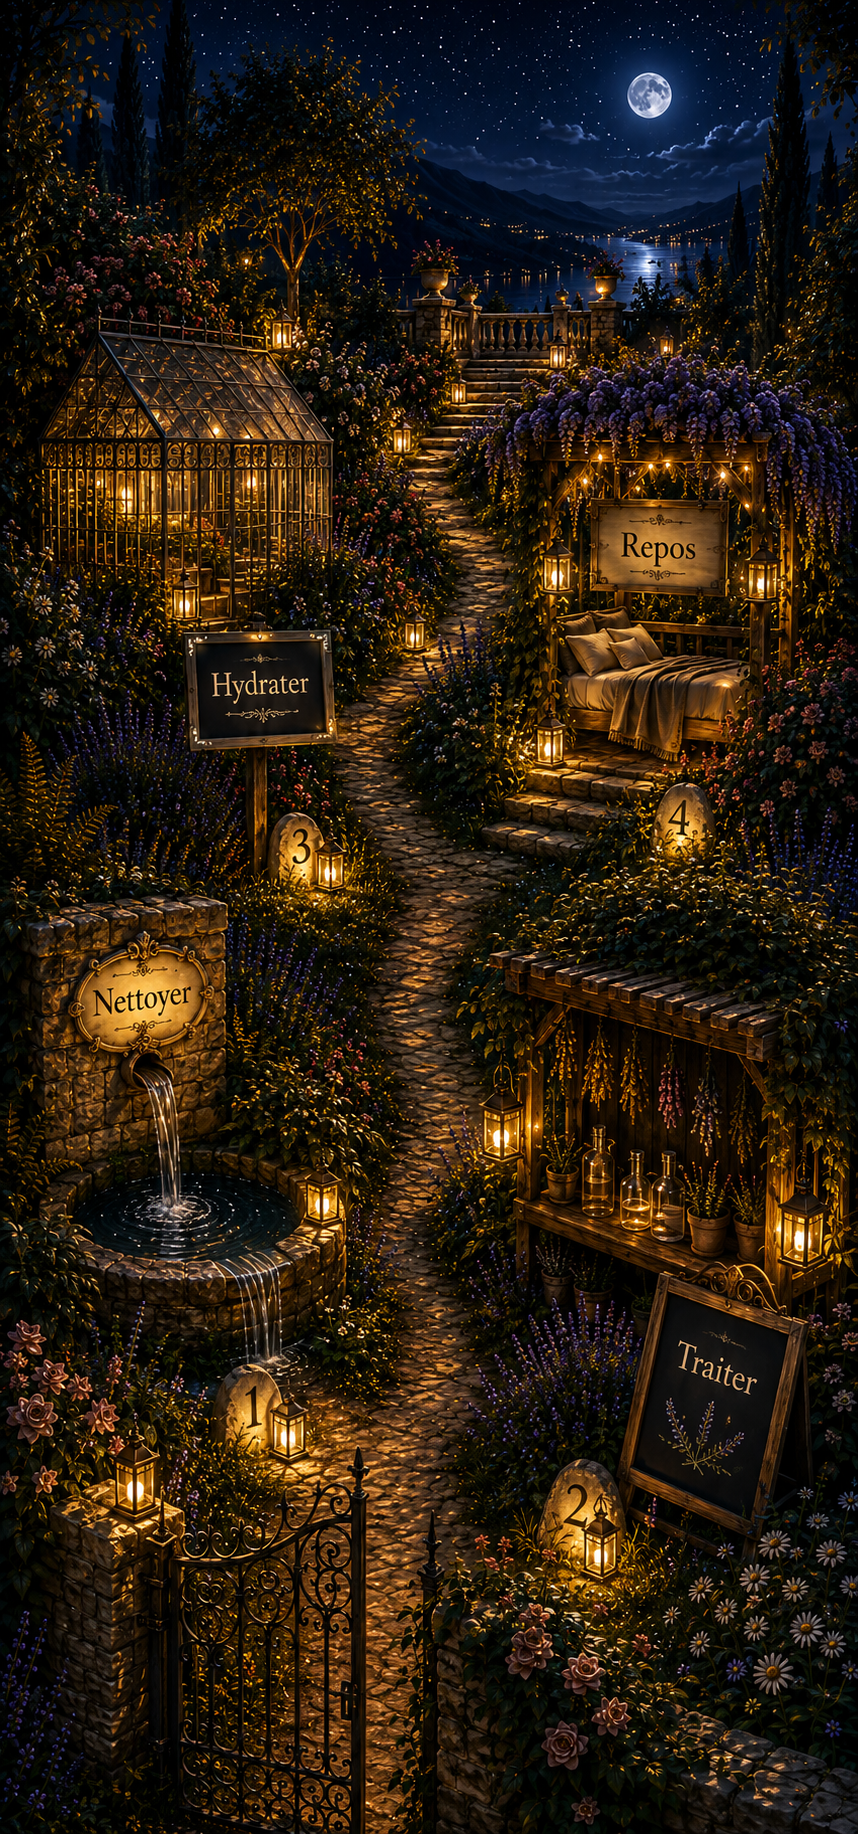
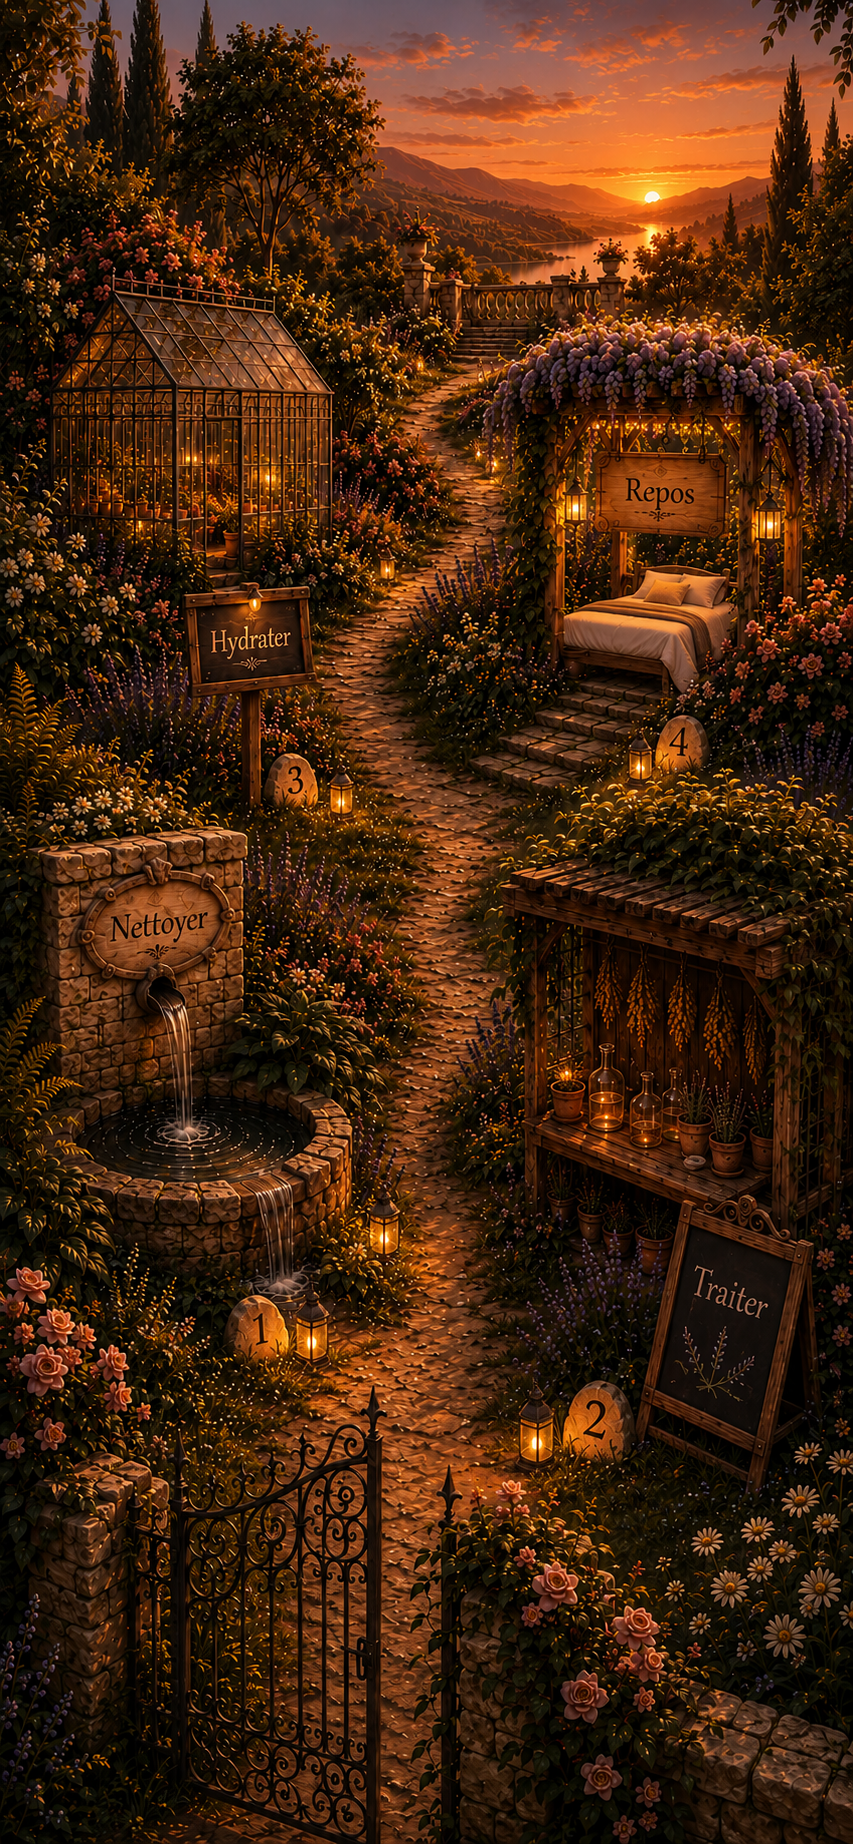
Rituel : nouvelle image du soir (coucher de soleil) + dimensions realignees
jardin-soir.jpg remplace (853x1844). CM_PAINT.soir remis a 853x1844.

diff --git a/index.html b/index.html
@@ -6107,7 +6107,7 @@
       proteger:{x:72, y:37, h:12.87, r:1.60, cx:72,   cy:31.5, pw:17,   ph:5,   rot:0},   // 4 → enseigne suspendue de la pergola
       arrivee :{x:52, y:22, h:3.17,  r:1.60}
     }},
-    soir:{ img:'img/jardin-soir.jpg', w:858, h:1834, top:22, panels:true, pos:{
+    soir:{ img:'img/jardin-soir.jpg', w:853, h:1844, top:22, panels:true, pos:{
       // Même jardin (de nuit) que le matin, enseignes vides → mêmes supports, même calage.
       nettoyer:{x:20, y:64, h:13.85, r:1.50, cx:17.5, cy:51,   pw:15,   ph:5.2, rot:0},   // 1 → plaque ovale de la fontaine
       traiter :{x:73, y:65, h:18.31, r:1.40, cx:84,   cy:65.5, pw:12.5, ph:7.5, rot:-2},  // 2 → ardoise de l'apothicaire
